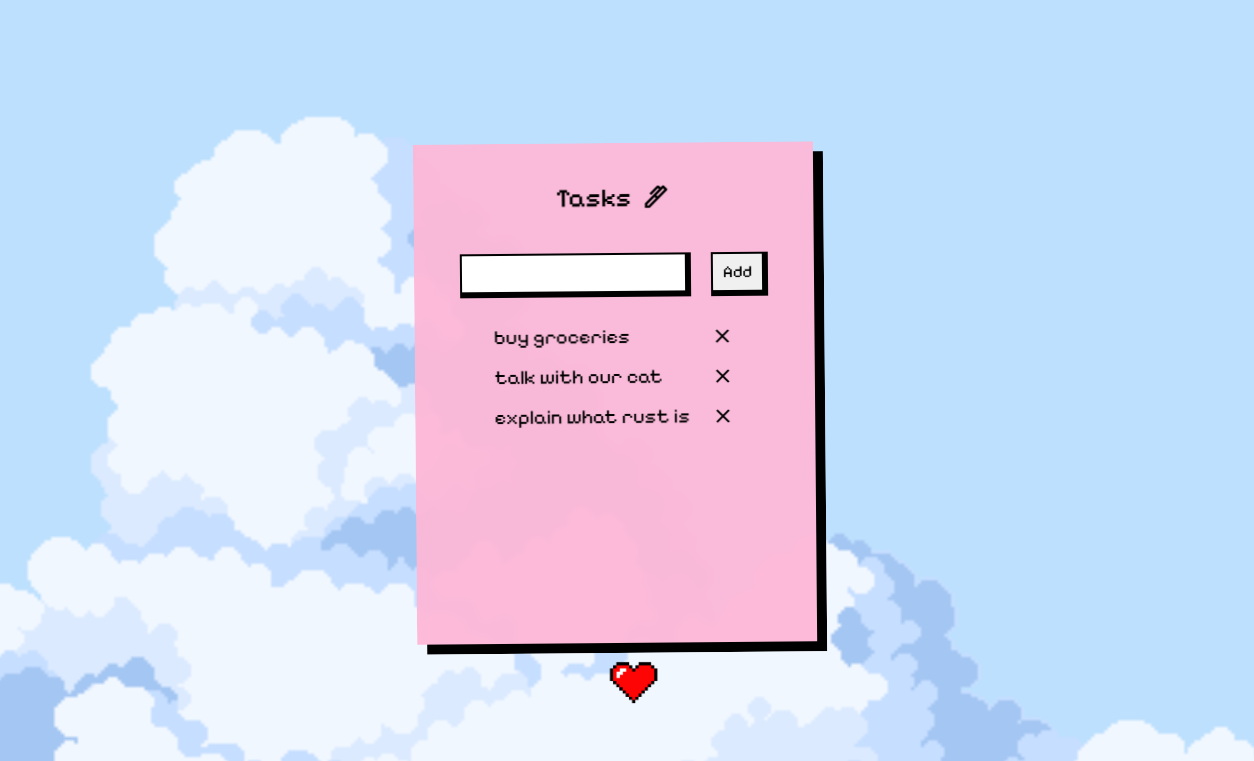
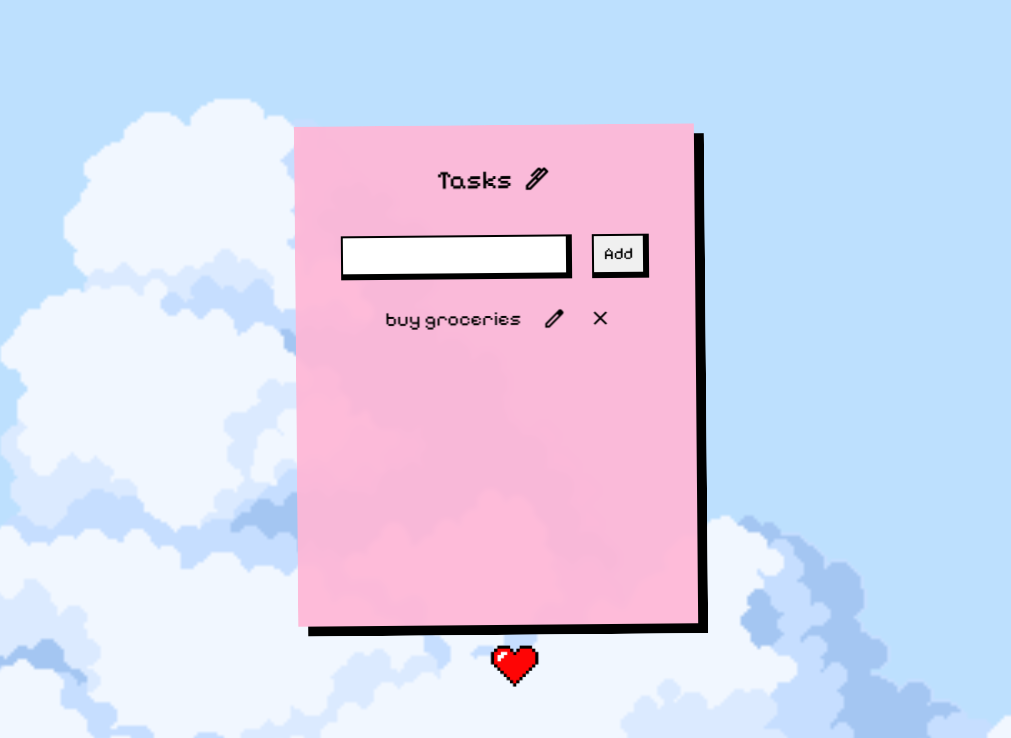
Add edit task functionality in App.vue by introducing editing property to task objects and implementing edit button functionality

diff --git a/sky-tasks/src/App.vue b/sky-tasks/src/App.vue
@@ -18,7 +18,10 @@ watch(tasks, (newList) => {
 
 const addTask = () => {
   if (task.value.trim() !== '') {
-    tasks.value.push(task.value)
+    tasks.value.push({
+      text: task.value,
+      editing: false
+    })
     task.value = ''
   }
 }
@@ -39,8 +42,16 @@ const deleteTask = (index) => {
           <button @click="addTask">Add</button>
         </div>
         <ul>
-          <li v-for="(item, index) in tasks" :key="index">
-            {{ item }}
+          <li v-for="(task, index) in tasks" :key="index">
+            <span v-if="!task.editing">
+              {{ task.text }}
+            </span>
+
+            <input v-else v-model="task.text" @keyup.enter="task.editing = false" />
+
+            <span class="material-symbols-outlined delete-btn" @click="task.editing = !task.editing">
+              edit
+            </span>
 
             <span class="material-symbols-outlined delete-btn" @click="deleteTask(index)">
               close

diff --git a/sky-tasks/index.html b/sky-tasks/index.html
@@ -4,7 +4,7 @@
     <meta charset="UTF-8">
     <link rel="icon" href="/favicon.png">
     <meta name="viewport" content="width=device-width, initial-scale=1.0">
-    <link rel="stylesheet" href="https://fonts.googleapis.com/css2?family=Material+Symbols+Outlined:opsz,wght,FILL,GRAD@20..48,100..700,0..1,-50..200&icon_names=close,ink_pen" />
+    <link rel="stylesheet" href="https://fonts.googleapis.com/css2?family=Material+Symbols+Outlined:opsz,wght,FILL,GRAD@20..48,100..700,0..1,-50..200&icon_names=close,edit,ink_pen" />
     <link rel="preconnect" href="https://fonts.googleapis.com">
     <link rel="preconnect" href="https://fonts.gstatic.com" crossorigin>
     <link href="https://fonts.googleapis.com/css2?family=Pixelify+Sans:wght@400..700&display=swap" rel="stylesheet">

diff --git a/README.md b/README.md
@@ -1,12 +1,13 @@
 # Sky Tasks
 
-![preview](./preview.png)
+![Preview](preview.png)
 
 A simple task manager built with Vue.js, focused on practicing reactivity, component structure and UI styling.
 
 ## Features
 - Add tasks
 - Remove tasks
+- Edit tasks
 - Animated background
 - Local storage persistence
 
